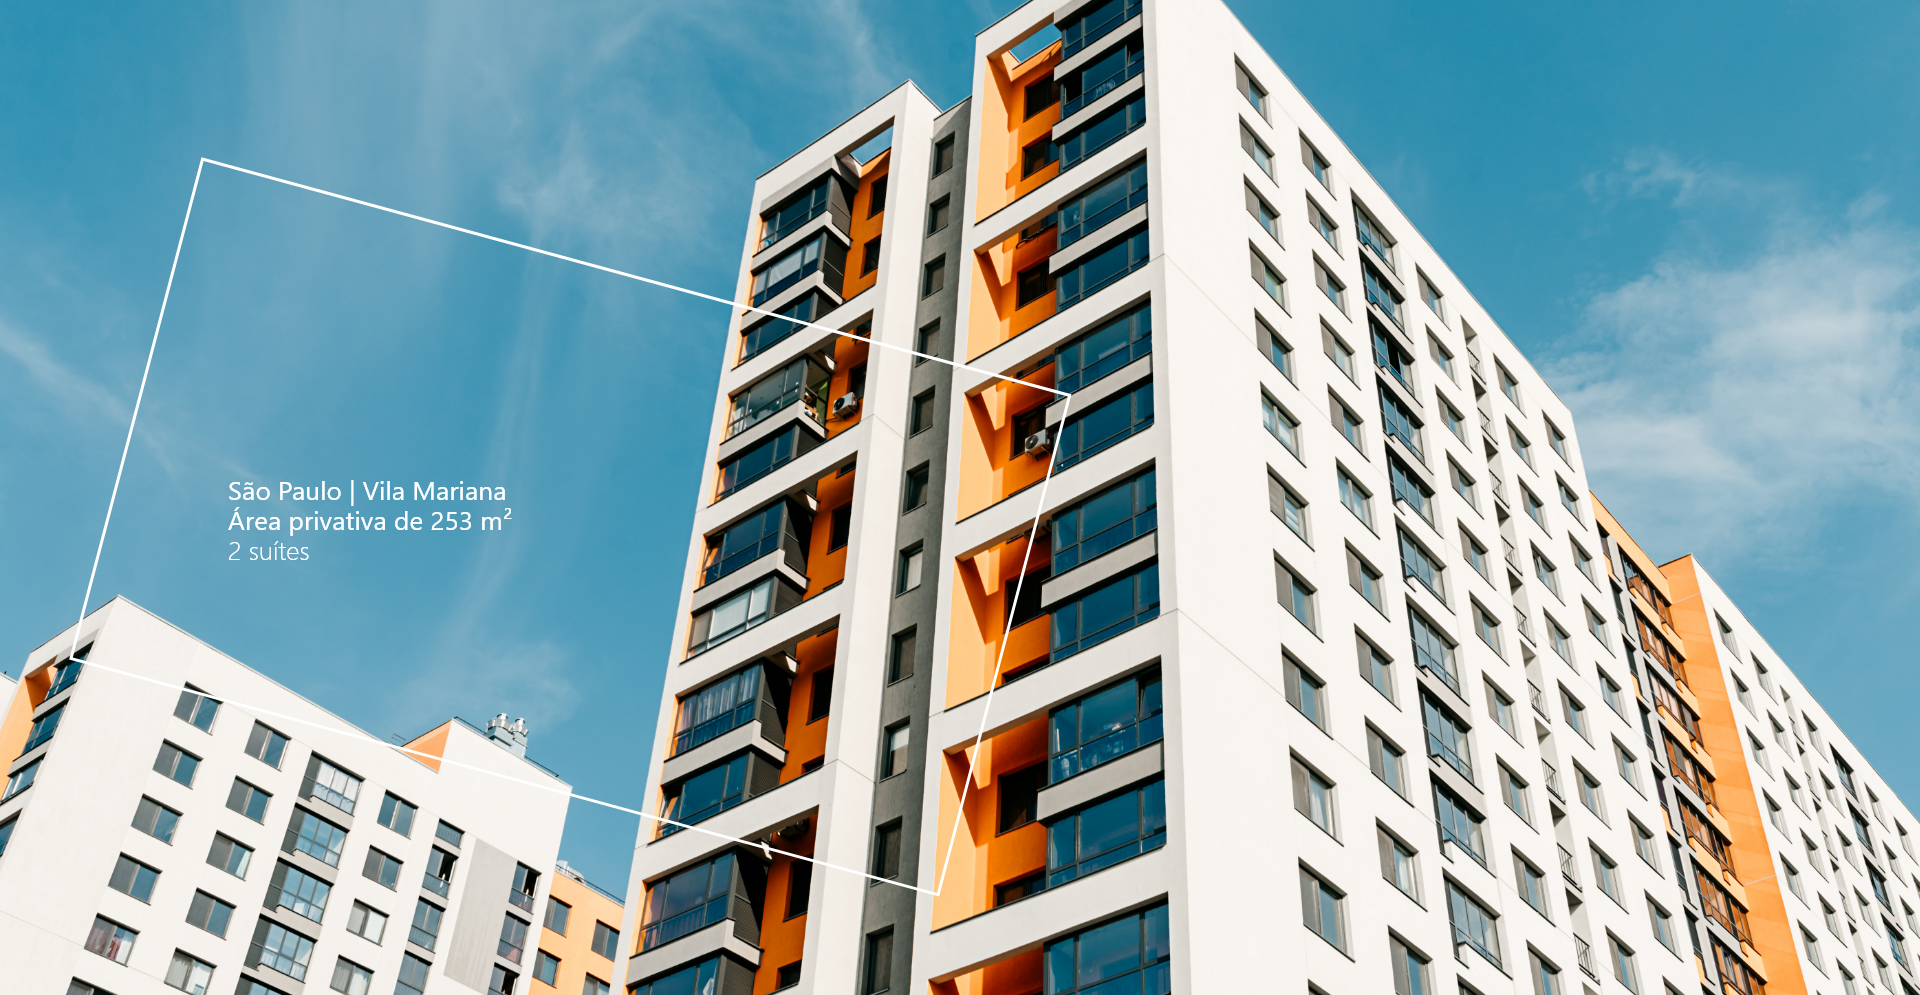
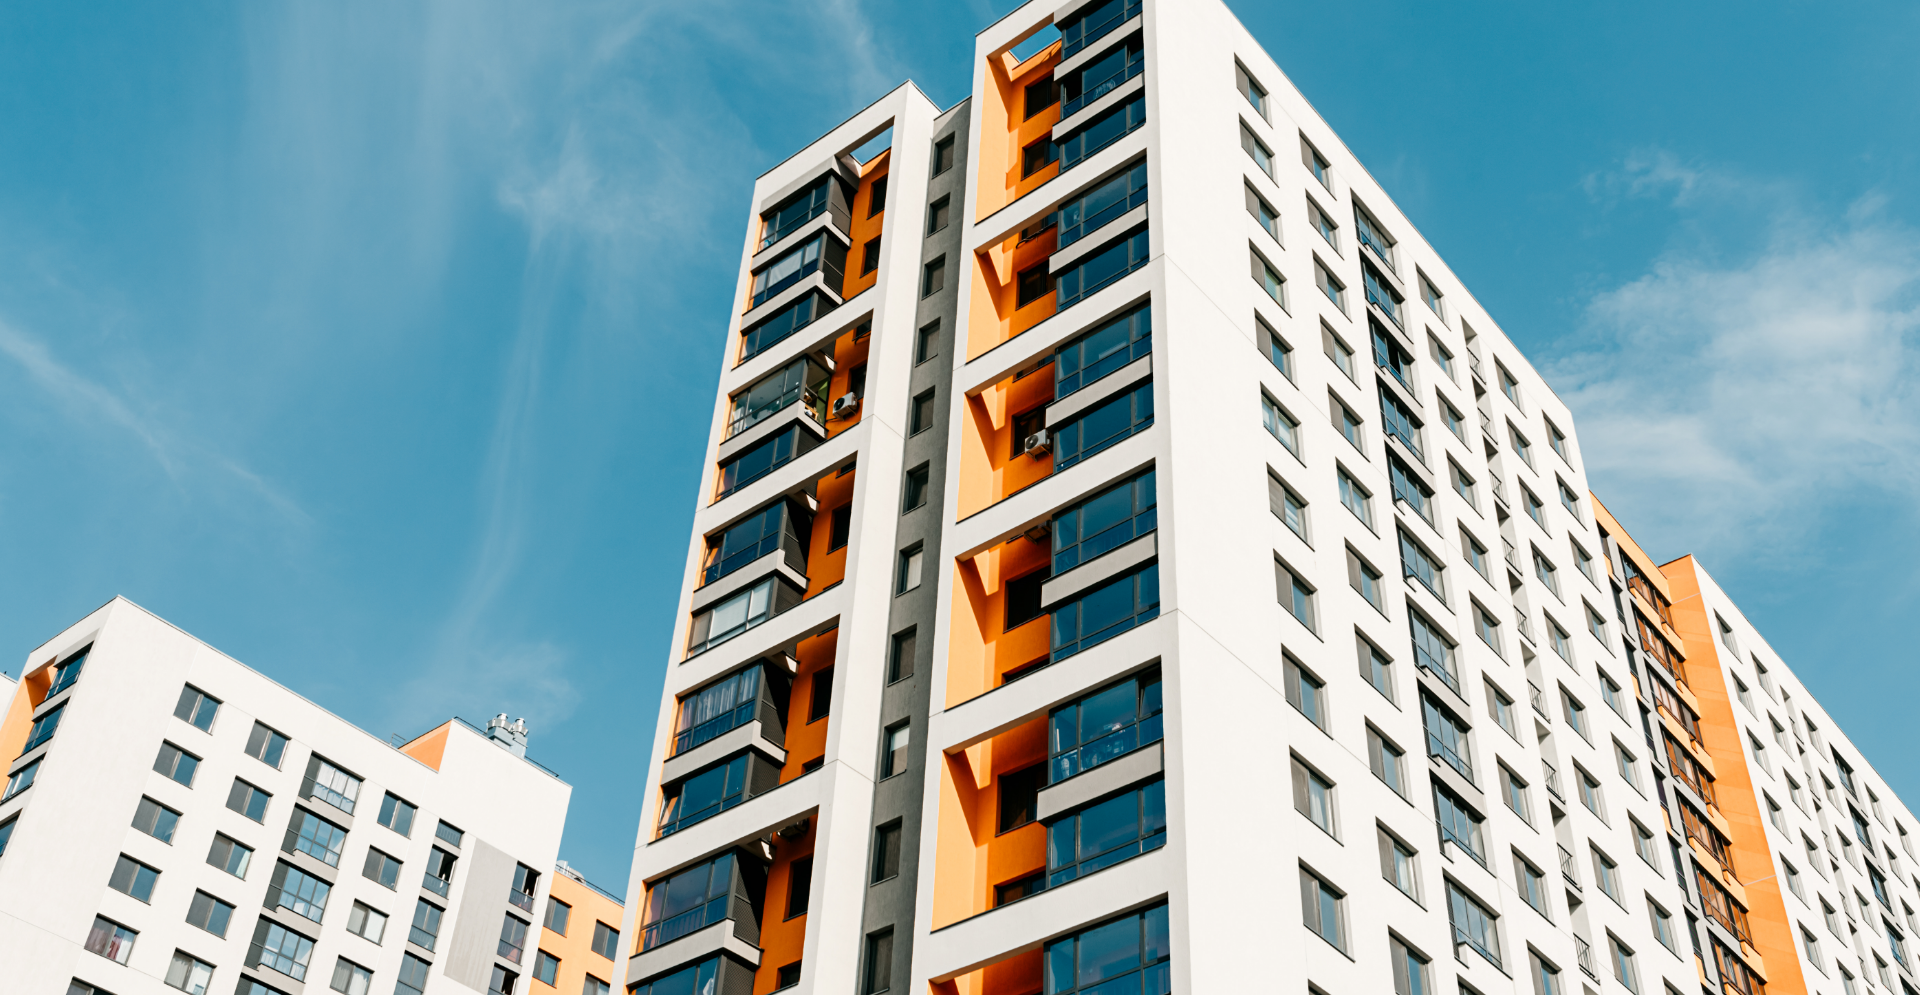
ajuste home

diff --git a/src/container/listaImoveis/index.js b/src/container/listaImoveis/index.js
@@ -4,12 +4,13 @@ import Content from "./style";
 import { Splide, SplideSlide } from '@splidejs/react-splide';
 import '@splidejs/splide/dist/css/themes/splide-sea-green.min.css';
 
-import serieR from "images/statics/tratores/serieR.png";
-import serieH from "images/statics/tratores/serieH.png";
-import seriePlus from "images/statics/tratores/seriePlus.png";
-import serieU from "images/statics/tratores/serieU.png";
-import serieG from "images/statics/tratores/serieG.png";
-import serieMT from "images/statics/tratores/serieMT.png";
+
+import home from "images/home/empreendimento_home.png";
+import home1 from "images/home/empreendimento_home1.png";
+import home2 from "images/home/empreendimento_home2.png";
+// import home3 from "images/home/empreendimento_home3.png";
+// import home4 from "images/home/empreendimento_home4.png";
+// import home5 from "images/home/empreendimento_home5.png";
 
 
 import CardLs from "components/cardLs";
@@ -43,84 +44,98 @@ function ListaImoveis() {
             arrows: false
           }}>
             <SplideSlide className="slide">
-              <CardLs image={serieR} 
+              <CardLs image={home}
                 title="Nome do Empreendimento"
                 text="São Paulo | Vila Mariano  
                       Área privativa de 253 m² 
                       2 suítes"/>
             </SplideSlide>
             <SplideSlide className="slide">
-              <CardLs image={serieH} 
+              <CardLs image={home1}
                 title="Nome do Empreendimento"
                 text="São Paulo | Vila Mariano  
                       Área privativa de 253 m² 
                       2 suítes"/>
             </SplideSlide>
             <SplideSlide className="slide">
-              <CardLs image={serieH} 
+              <CardLs image={home1}
                 title="Nome do Empreendimento"
                 text="São Paulo | Vila Mariano  
                       Área privativa de 253 m² 
                       2 suítes"/>
             </SplideSlide>
             <SplideSlide className="slide">
-              <CardLs image={serieH} 
+              <CardLs image={home1}
                 title="Nome do Empreendimento"
                 text="São Paulo | Vila Mariano  
                       Área privativa de 253 m² 
                       2 suítes"/>
             </SplideSlide>
             <SplideSlide className="slide">
-              <CardLs image={serieH} 
+              <CardLs image={home1}
                 title="Nome do Empreendimento"
-               text="São Paulo | Vila Mariano  
+                text="São Paulo | Vila Mariano  
                      Área privativa de 253 m² 
                      2 suítes"/>
             </SplideSlide>
             <SplideSlide className="slide">
-              <CardLs image={serieH} 
+              <CardLs image={home1}
                 title="Nome do Empreendimento"
-               text="São Paulo | Vila Mariano  
+                text="São Paulo | Vila Mariano  
                      Área privativa de 253 m² 
                      2 suítes"/>
             </SplideSlide>
           </Splide>
 
           :
-          <div className="maquinas">
-            <CardLs image={serieR} 
-              title="Nome do Empreendimento"
-              text="São Paulo | Vila Mariano  
+          <Splide className="col-12" options={{
+            rewind: true,
+            width: "100%",
+            gap: '1.5rem',
+            perPage: 1,
+            pagination: true
+          }}>
+            <SplideSlide>
+              <div className="maquinas">
+                <CardLs image={home}
+                  title="Nome do Empreendimento"
+                  text="São Paulo | Vila Mariano  
                     Área privativa de 253 m² 
                     2 suítes"/>
-            <CardLs image={serieH} 
-              title="Nome do Empreendimento"
-              text="São Paulo | Vila Mariano  
+                <CardLs image={home1}
+                  title="Nome do Empreendimento"
+                  text="São Paulo | Vila Mariano  
                     Área privativa de 253 m² 
                     2 suítes"/>
-            <CardLs image={seriePlus} title="Série Plus"
-              text="São Paulo | Vila Mariano  
+                <CardLs image={home2} title="Série Plus"
+                  text="São Paulo | Vila Mariano  
                     Área privativa de 253 m² 
                     2 suítes"/>
-            <CardLs image={serieU} 
-              title="Nome do Empreendimento"
-              text="São Paulo | Vila Mariano  
+              </div>
+            </SplideSlide>
+            <SplideSlide>
+              <div className="maquinas">
+                <CardLs image={home}
+                  title="Nome do Empreendimento"
+                  text="São Paulo | Vila Mariano  
                     Área privativa de 253 m² 
                     2 suítes"/>
-            <CardLs image={serieG} 
-              title="Nome do Empreendimento"
-              text="São Paulo | Vila Mariano  
+                <CardLs image={home1}
+                  title="Nome do Empreendimento"
+                  text="São Paulo | Vila Mariano  
                     Área privativa de 253 m² 
                     2 suítes"/>
-            <CardLs image={serieMT} 
-              title="Nome do Empreendimento"
-              text="São Paulo | Vila Mariano  
+                <CardLs image={home2}
+                  title="Nome do Empreendimento"
+                  text="São Paulo | Vila Mariano  
                     Área privativa de 253 m² 
                     2 suítes"/>
-          </div>
+              </div>
+            </SplideSlide>
+          </Splide>
         }
       </Content>
-    </ScrollableAnchor>
+    </ScrollableAnchor >
   );
 }
 

diff --git a/src/container/bannerHome/style.js b/src/container/bannerHome/style.js
@@ -1,7 +1,7 @@
 import styled from "styled-components";
 import fonts from "config/fonts";
 
-import background from "images/background/backgroundWelcome.jpg";
+import background from "images/home/banner_home.png";
 
 const Content = styled.div`
   flex-direction: row;
@@ -14,22 +14,34 @@ const Content = styled.div`
   text-align: center;
 
   .welcome{
-    margin-top: 30vh;
+    height: 100%;
+    width: 100%;
+    border-style: solid;
+    border-color: #ffffff;
+    border-width: 2px;
+    margin: 3rem 0 0px 12rem;
+    transform: rotate(108deg);
+  }
+  .box-texto {
+    margin-top: 16rem ;
+    transform: rotate(-108deg);
+    width: max-content;
   }
   .title{
-    font-size: 4rem;
-    font-family: ${fonts.opensans_regular};
+    font-size: 3.75rem;
+    font-family: ${fonts.opensans_light};
     color: #ffffff;
     text-align: left;
+    margin-bottom: -20px;
   }
   .title1{
-    font-size: 2.5rem;
-    font-family: ${fonts.opensans_regular};
+    font-size: 2rem;
+    font-family: ${fonts.opensans_bold};
     color: #ffffff;
     text-align: left;
   }
   .text{
-    font-size: 1.5rem;
+    font-size: 1.25rem;
     font-family: ${fonts.opensans_light};
     color: #ffffff;
     text-align: left;
@@ -41,11 +53,12 @@ const Content = styled.div`
  
   .btn1{
     background-color: #000000;
-    font-family: ${fonts.opensans_light};
-    font-size: 2rem;
+    font-family: OpenSans-Light;
+    font-size: 1.75rem;
     color: #ffffff;
-    border-radius: 5px;
-    height: 70px;
+    border-radius: 4px;
+    height: 50px;
+    width: 16rem;
 
     &.active {
       background-color: #405c9a;

diff --git a/src/container/index.js b/src/container/index.js
@@ -4,7 +4,6 @@ import Pecas from './pecas';
 import Footer from './footer';
 import Menu from './menu';
 import ListaMaquinas from './lista-maquinas';
-import Welcome from './welcome';
 import Header from './header';
 import Newsletter from './newsletter';
 import FormCatalogo from './formCatalogo';
@@ -12,6 +11,7 @@ import Consorcio from './consorcio';
 import Banner from './banner';
 
 
+import BannerHome from './bannerHome';
 import ListaImoveis from './listaImoveis';
 import VideoBarbo from './videoBarbo';
 import Essencia from './essencia';
@@ -58,14 +58,14 @@ export {
     Pecas,
     Footer,
     ListaMaquinas,
-    Welcome,
     Header,
     Newsletter,
     FormCatalogo,
     Consorcio,
     Banner,
     
-
+    
+    BannerHome,
     Formulario,
     Corretor,
     Mapa,

diff --git a/src/Routes.js b/src/Routes.js
@@ -33,9 +33,9 @@ import Error_Page_404 from './pages/error/404'
 const Routes = () => (
     <BrowserRouter>
         <Switch>            
-            {/*<Route path='/empreendimentos' component={Empreendimentos_Page} />
-             <Route path='/quem_somos' component={QuemSomos_Page} />
-            <Route path='/blog' component={Blog_Page} />
+            {/* <Route path='/empreendimentos' component={Empreendimentos_Page} /> 
+             <Route path='/quem_somos' component={QuemSomos_Page} />*/}
+            {/*<Route path='/blog' component={Blog_Page} />
             <Route path='/fale_conosco' component={FaleConosco_Page} />
             <Route path='/portal_corretor' component={PortalCorretor_Page} />
             <Route path='/contato' component={Contato_Page} />  */}

diff --git a/src/pages/home/index.js b/src/pages/home/index.js
@@ -1,6 +1,6 @@
 import React, { Fragment, useEffect } from "react";
 
-import {Welcome} from "container";
+import {BannerHome, Welcome} from "container";
 import { configureAnchors } from "react-scrollable-anchor";
 
 import {FlashMessageCookies, ModalPolitica} from 'components';
@@ -17,7 +17,7 @@ const Home_Page = () => {
       <ModalPolitica />
       <FlashMessageCookies/>
       <MenuLs/>
-      <Welcome />
+      <BannerHome />
       <ListaImoveis />
       <VideoBarbo/>
       <FooterLs />

diff --git a/src/container/bannerHome/index.js b/src/container/bannerHome/index.js
@@ -10,8 +10,8 @@ function Welcome() {
 
     return (
         <Content className="col-12 row">
-            <div className="col-8 col-md-3 offset-1">
-                <div className="welcome">
+            <div className="welcome col-3 offset-1">
+                <div className="box-texto">
                     <div className="title">Nome do </div>
                     <div className="title1">Empreendimento</div>
                     <p className="text">

diff --git a/src/container/listaImoveis/style.js b/src/container/listaImoveis/style.js
@@ -60,12 +60,16 @@ background-color: #eeeeee;
         font-family: ${fonts.opensans_bold};
     }
 }
-
+.splide__arrow svg {
+    width: 2.5em;
+    height: 2.5em;
+    fill: #000000;
+    transition: fill .2s linear;
+}
 .maquinas{
     display:grid;
     grid-template-columns: 1fr 1fr 1fr;
-
-    margin-bottom: 50px;
+    margin: 50px 40px;
 }
 
 

diff --git a/src/components/card/style.js b/src/components/card/style.js
@@ -7,7 +7,7 @@ img{
 }
 
 .card{
-    width: 26rem;
+    width: 25rem;
     margin: 5px;
 }
 

diff --git a/src/components/cardLs/style.js b/src/components/cardLs/style.js
@@ -7,7 +7,7 @@ img{
 }
 
 .card{
-    width: 26rem;
+    width: 25rem;
 }
 
 .card-body{
